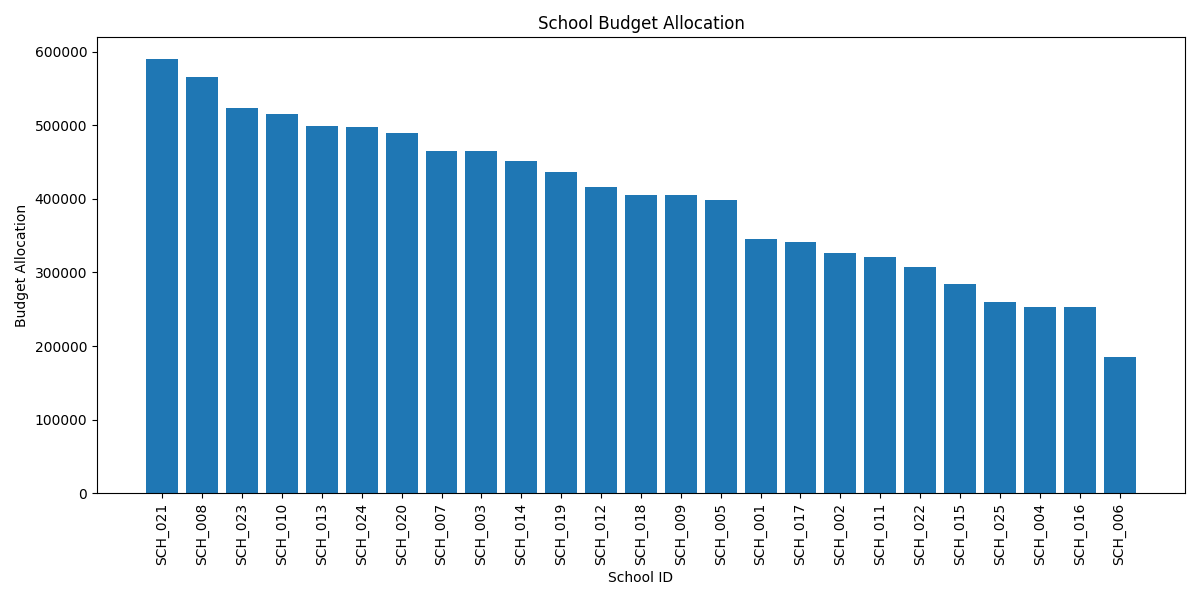
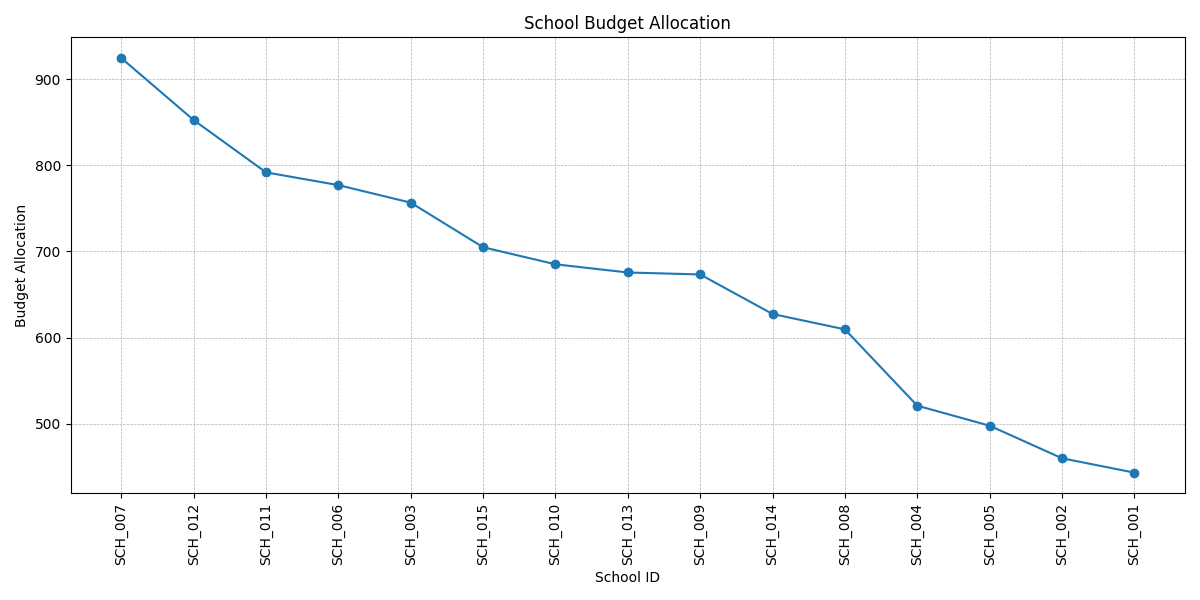
Third Commit

diff --git a/templates/showgendata.html b/templates/showgendata.html
@@ -45,12 +45,12 @@
         <thead>
             <tr>
                 <th>School ID</th>
-                <th>Performance Score</th>
-                <th>Student Teacher Ratio</th>
+                <th>Academic Performance Score</th>
+                <th>Graduation Rate</th>
                 <th>Educational Needs Percent</th>
                 <th>Disable Student Percent</th>
-                <th>Tech Access Score</th>
-                <th>Free Reduced Lunch Percent</th>
+                <th>Technology Access Score</th>
+                <th>Total Students of the School</th>
             </tr>
         </thead>
         <tbody>

diff --git a/templates/allores.html b/templates/allores.html
@@ -45,7 +45,7 @@
         <thead>
             <tr>
                 <th>School ID</th>
-                <th>Priority Score</th>
+                <th>Ranking Score</th>
                 <th>Allocated Budget</th>
             </tr>
         </thead>

diff --git a/prototype.py b/prototype.py
@@ -1,4 +1,4 @@
-from flask import Flask, render_template, request, redirect, url_for
+from flask import Flask, render_template, request
 import pandas as pd
 import matplotlib
 matplotlib.use('Agg')  # Set the backend to Agg
@@ -10,18 +10,20 @@ import generate_dataset as gd
 
 app= Flask(__name__)
 
-def allocate_resources(df, total_budget):
-    df['Allocated_Budget'] = df['Priority_Score'] / df['Priority_Score'].sum() * total_budget
-    return df
+def budget_allocation(instance, total_budget):
+    instance['Allocated_Budget'] = instance['rank_score'] / instance['rank_score'].sum() * total_budget
+    return instance
 
 
-def visualize_results_priority(df):
+def ranking_chart(instance):
     plt.figure(figsize=(12, 6))
-    plt.bar(df['School_ID'], df['Priority_Score'])
-    plt.title('School Priority Scores')
+    plt.plot(instance['School_ID'], instance['rank_score'], marker='o')
+    # plt.bar(instance['School_ID'], instance['rank_score'])
+    plt.title('School Ranking')
     plt.xlabel('School ID')
-    plt.ylabel('Priority Score')
+    plt.ylabel('Ranking Score')
     plt.xticks(rotation=90)
+    plt.grid(True, which='both', linestyle='--', linewidth=0.5)
     plt.tight_layout()
 
     # Save the plot as a PNG file
@@ -30,16 +32,18 @@ def visualize_results_priority(df):
         os.makedirs(output_dir)
     output_path = os.path.join(output_dir, 'priority_scores.png')
     plt.savefig(output_path)
-    plt.close()  # Close the figure to free up memory
+    plt.close()
 
-def visualize_results_budget(df, totalbudget):
-    allocated_df = allocate_resources(df, totalbudget)
+def budget_chart(instance, totalbudget):
+    allocated_instance = budget_allocation(instance, totalbudget)
     plt.figure(figsize=(12, 6))
-    plt.bar(allocated_df['School_ID'], allocated_df['Allocated_Budget'])
+    plt.plot(allocated_instance['School_ID'], allocated_instance['Allocated_Budget'], marker='o')
+    # plt.bar(allocated_instance['School_ID'], allocated_instance['Allocated_Budget'])
     plt.title('School Budget Allocation')
     plt.xlabel('School ID')
     plt.ylabel('Budget Allocation')
     plt.xticks(rotation=90)
+    plt.grid(True, which='both', linestyle='--', linewidth=0.5)
     plt.tight_layout()
 
     # Save the plot as a PNG file
@@ -57,14 +61,14 @@ def home():
 
 @app.route('/gendata')
 def gendata():
-    gd.generate_data()
+    gd.dataset_generation()
     generate= "Dataset generated successfully"
     return render_template('index.html', generate=generate)
 
 @app.route('/showgendata')
 def showgendata():
     generated = pd.read_csv('output/school_dataset_generated.csv')
-    showgen = generated[['School_ID', 'Performance_Score', 'Student_Teacher_Ratio', 'Educational_Needs_Percent', 'Disable_Student_Percent', 'Tech_Access_Score', 'Free_Reduced_Lunch_Percent']].to_string(index=False)
+    showgen = generated[['School_ID', 'Academic_Performance_Score', 'Graduation_Rate', 'Educational_Needs_Percent', 'Disable_Student_Percent', 'Technology_Access_Score', 'Total_Students']].to_string(index=False)
     return render_template('showgendata.html', showgen=showgen)
 
 @app.route('/setbudget', methods= ['GET', 'POST'])
@@ -83,29 +87,29 @@ def setbudget():
 @app.route('/allores')
 def allores():
     # Load data
-    df = pd.read_csv('output/school_dataset_generated.csv')
+    data = pd.read_csv('output/school_dataset_generated.csv')
 
     # Calculate priority scores (using the function from Step 3)
-    df['Priority_Score'] = dl.calculate_priority_score(df)
-    df = df.sort_values('Priority_Score', ascending=False).reset_index(drop=True)
+    data['rank_score'] = dl.rank(data)
+    data = data.sort_values('rank_score', ascending=False).reset_index(drop=True)
     total_budget_csv = pd.read_csv('output/totalbudget.csv')
     total_budget = int(total_budget_csv['Total_Budget'].to_string(index=False))
-    allocated_df = allocate_resources(df, total_budget)
-    allores= allocated_df[['School_ID', 'Priority_Score', 'Allocated_Budget']].to_string(index=False)
+    allocated_df = budget_allocation(data, total_budget)
+    allores= allocated_df[['School_ID', 'rank_score', 'Allocated_Budget']].to_string(index=False)
     return render_template('allores.html', allores=allores)
 
 @app.route('/visual')
 def visual():
     # Load data
-    df = pd.read_csv('output/school_dataset_generated.csv')
+    data = pd.read_csv('output/school_dataset_generated.csv')
 
     # Calculate priority scores (using the function from Step 3)
-    df['Priority_Score'] = dl.calculate_priority_score(df)
-    df = df.sort_values('Priority_Score', ascending=False).reset_index(drop=True)
+    data['rank_score'] = dl.rank(data)
+    data = data.sort_values('rank_score', ascending=False).reset_index(drop=True)
     total_budget_csv = pd.read_csv('output/totalbudget.csv')
     total_budget = int(total_budget_csv['Total_Budget'].to_string(index=False))
-    visualize_results_priority(df)
-    visualize_results_budget(df, total_budget)
+    ranking_chart(data)
+    budget_chart(data, total_budget)
     return render_template('visual.html')
 
 app.run(debug=True, host="0.0.0.0")

diff --git a/generate_dataset.py b/generate_dataset.py
@@ -1,21 +1,20 @@
 import pandas as pd
 import numpy as np
 import random
-def generate_data():
+def dataset_generation():
+    school_id = 15
     rand = random.randint(1,100)
-    np.random.seed(rand)  # For reproducibility
-
-    num_schools = 25
+    np.random.seed(rand)  # Changing the seed for randomize range
 
     data = {
-        'School_ID': [f'SCH_{i:03d}' for i in range(1, num_schools + 1)],
-        'Performance_Score': np.random.uniform(50, 95, num_schools),
-        'Student_Teacher_Ratio': np.random.uniform(10, 25, num_schools),
-        'Educational_Needs_Percent': np.random.uniform(5, 20, num_schools),
-        'Disable_Student_Percent': np.random.uniform(0, 30, num_schools),
-        'Tech_Access_Score': np.random.uniform(40, 90, num_schools),
-        'Free_Reduced_Lunch_Percent': np.random.uniform(20, 80, num_schools),
+        'School_ID': [f'SCH_{i:03d}' for i in range(1, school_id + 1)],
+        'Academic_Performance_Score': np.random.uniform(60, 98, school_id),
+        'Graduation_Rate': np.random.uniform(75, 100, school_id),
+        'Educational_Needs_Percent': np.random.uniform(5, 20, school_id),
+        'Disable_Student_Percent': np.random.uniform(0, 30, school_id),
+        'Technology_Access_Score': np.random.uniform(50, 95, school_id),
+        'Total_Students': np.random.randint(300, 1500, school_id),
     }
 
-    df = pd.DataFrame(data)
-    df.to_csv('output/school_dataset_generated.csv', index=False)
+    dataset = pd.DataFrame(data)
+    dataset.to_csv('output/school_dataset_generated.csv', index=False)

diff --git a/decision_logic.py b/decision_logic.py
@@ -1,23 +1,22 @@
-def normalize_inverse(series):
-    return (series.max() - series) / (series.max() - series.min())
-
-
-def calculate_priority_score(df):
+def rank(data):
     weights = {
-        'Performance_Score': -0.25,
-        'Student_Teacher_Ratio': 0.20,
+        'Academic_Performance_Score': -0.25,
+        'Graduation_Rate': 0.20,
         'Educational_Needs_Percent': 0.15,
         'Disable_Student_Percent': 0.15,
-        'Tech_Access_Score': -0.10,
-        'Free_Reduced_Lunch_Percent': 0.15
+        'Technology_Access_Score': -0.10,
+        'Total_Students': 0.15
     }
 
-    normalized_df = df.copy()
+    def zero_to_one_convertor(factor):
+        return (factor.max() - factor) / (factor.max() - factor.min())
+
+    converted_data = data.copy()
     for column, weight in weights.items():
         if weight < 0:
-            normalized_df[column] = normalize_inverse(df[column])
+            converted_data[column] = zero_to_one_convertor(data[column])
         else:
-            normalized_df[column] = (df[column] - df[column].min()) / (df[column].max() - df[column].min())
+            converted_data[column] = (data[column] - data[column].min()) / (data[column].max() - data[column].min())
 
-    normalized_df['Priority_Score'] = sum(normalized_df[column] * abs(weight) for column, weight in weights.items())
-    return normalized_df['Priority_Score']
+    converted_data['rank_score'] = sum(converted_data[column] * abs(weight) for column, weight in weights.items())
+    return converted_data['rank_score']
